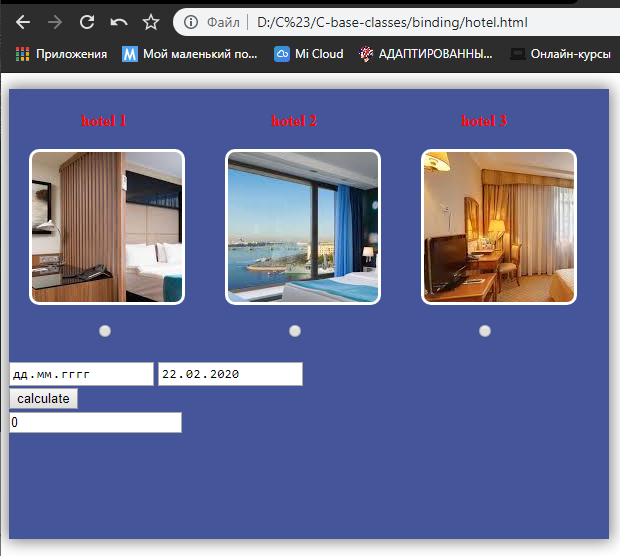
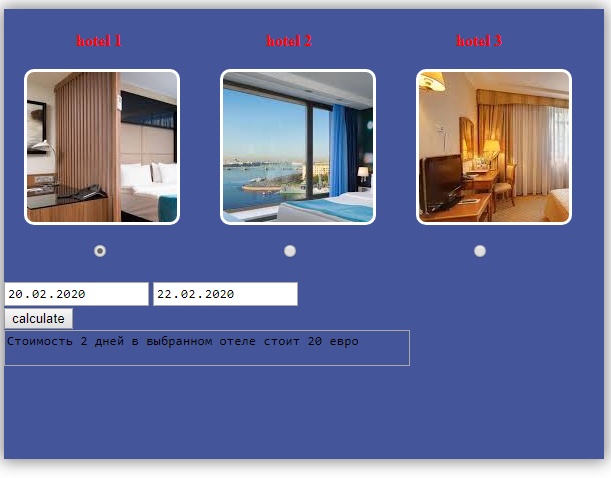
1

diff --git a/binding/hotel.html b/binding/hotel.html
@@ -37,12 +37,50 @@
 </div>
 
 <div><button onClick="calc(); return false;">calculate</button></div>
-<div>
-  <input type="text" readonly id="sum" value="0" onmouseover="b(0,'sum')">
+<div>  
+  <textarea type="text" readonly id="sum" class="js_sum" value="" ></textarea>
 </div>    
 </form>   
 </body>
-<script src="my_script.js"> </script>
+<script> 
+  const pricing = {
+    "studio": 10,
+    "1bed": 15,
+    "2bed": 20
+  }
+  let model = {
+    startdate: "2020-02-20",
+    enddate: "2020-02-22",
+    room: "2bed",
+    sum: 30
+  }
+ 
+function mybinder(i, _string) {
+  
+  if(i)
+  {     
+    this[_string]=event.target.value;   
+      }
+  else 
+  {
+    event.target.value=this[_string];
+  }
+}
+  var b=mybinder.bind(model);
+ 
+  function calc() {
+   
+    if(model.startdate && model.enddate && model.room) {
+      const days = Math.round((new Date(model.enddate) - new Date(model.startdate))/(24*60*60*1000));      
+      if(pricing[model.room]) {
+        model.sum = pricing[model.room] * days;        
+      }
+      let str = "Стоимость "+ days +" дней в выбранном отеле стоит " +model.sum+" евро" ; 
+      sum.value=str;    
+    }  
+      
+  }
+</script>
 
 </body>
 </html>

diff --git a/binding/my_script.js b/binding/my_script.js
@@ -30,5 +30,7 @@ function mybinder(i, _string) {
       if(pricing[model.room]) {
         model.sum = pricing[model.room] * days;        
       }
-    }      
+    } 
+    let str = "Стоимость "+ days +" в выбранном отеле стоит " +sum;  
+    sum.value=str;   
   }

diff --git a/binding/Style.css b/binding/Style.css
@@ -61,3 +61,9 @@ ul {
   text-align:center;
   
 }
+textarea{
+  width:400px;
+  background: #459;
+  height:30px; 
+  resize: none;
+}
